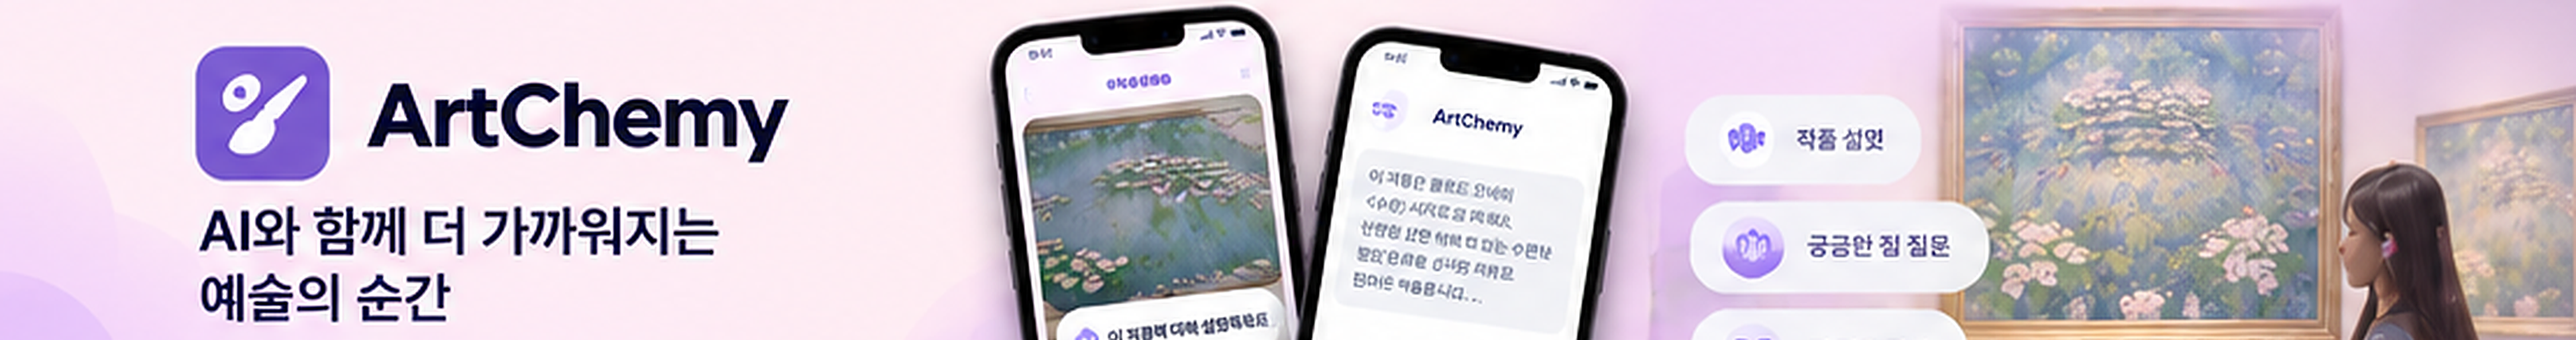
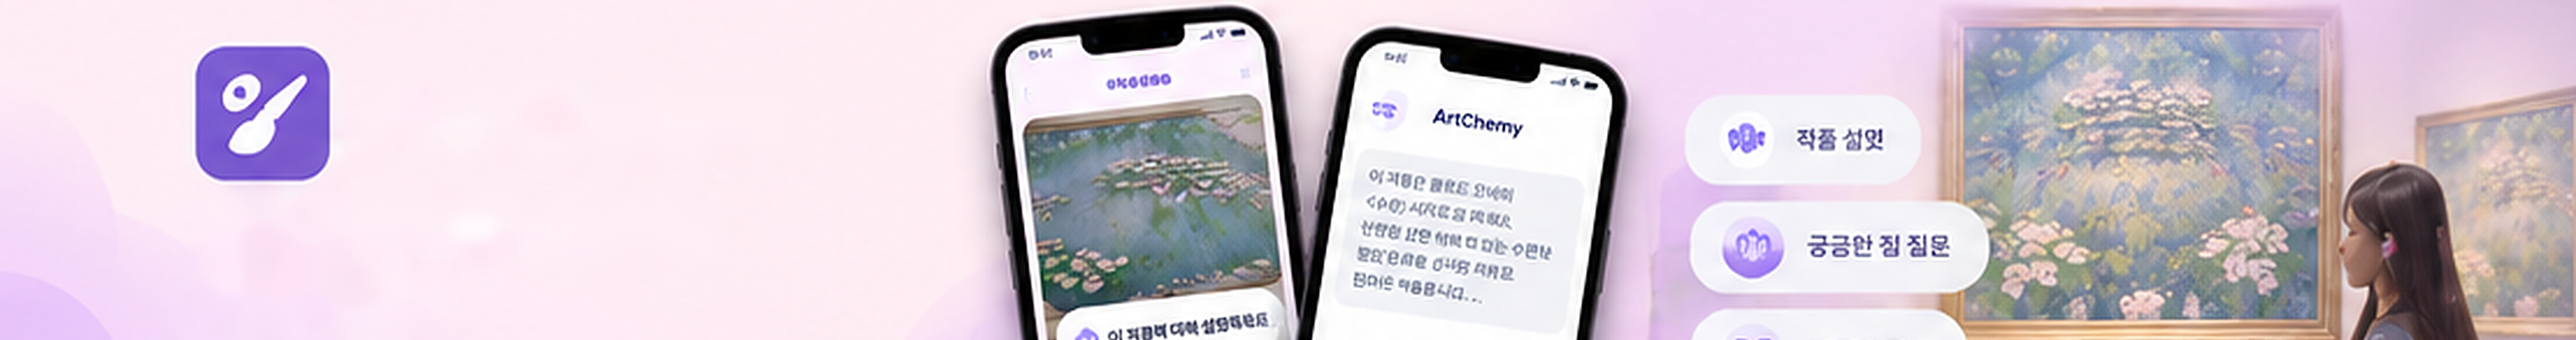
Feat: Use text-free cover images with the title overlaid on the hero
Swap in the notext banners, raise the desktop hero ratio to 3840:580, and put the
type, title and period back on top of the image, starting right of the icon.

Changed region(s): [[0.125, 0.2362, 0.3125, 0.4724], [0.0625, 0.5906, 0.2812, 0.7677], [0.0625, 0.7972, 0.1875, 0.9449]]

diff --git a/src/components/projects/ProjectDetailView.tsx b/src/components/projects/ProjectDetailView.tsx
@@ -97,21 +97,23 @@ export default function ProjectDetailView({
     if (img && img.complete && img.naturalWidth === 0) setCoverFailed(true);
   }, []);
   const coverBase = `/images/projects/${project.slug}`;
-  // 데스크톱(md 이상)은 영역 비율을 3840:520 으로 고정하고 이미지를 가득 채운다. 비율이 다른 이미지는 가장자리가 잘린다.
-  // 모바일은 이미지 높이를 그대로 따른다. width/height 는 로딩 전 자리를 잡기 위한 대략적인 값이다.
+  // 이미지 위에 제목, 유형, 기간을 얹는다. 이미지는 영역을 가득 채우고 왼쪽 기준으로 잘린다.
+  // 이미지 왼쪽에 아이콘이 있어서, 데스크톱에서는 글자를 폭의 14% 지점(아이콘 오른쪽)부터 시작한다.
+  // 데스크톱(md 이상)은 영역 비율을 3840:580 으로 고정하되, 내용이 더 길면 그만큼 늘어난다.
+  // width/height 는 로딩 전 자리를 잡기 위한 대략적인 값이다.
   const coverCommon = {
     alt: `${project.title} cover`,
     sizes: "100vw",
     quality: 85,
     loading: "eager" as const,
     className:
-      "block w-full h-auto md:absolute md:inset-0 md:h-full md:object-cover md:object-center",
+      "absolute inset-0 h-full w-full object-cover object-left md:object-[15%_50%]",
   };
   const desktopCover = getImageProps({
     ...coverCommon,
     src: `${coverBase}-desktop.png`,
     width: 3840,
-    height: 520,
+    height: 580,
   });
   const mobileCover = getImageProps({
     ...coverCommon,
@@ -124,105 +126,68 @@ export default function ProjectDetailView({
     formatPeriod(project.start, project.end, lang, project.period ?? "") ||
     null;
 
-  // 제목, 유형, 기간. 이미지 위(어두운 배경)에 얹을 때와 이미지 아래(밝은 배경)에 둘 때 색만 다르다.
-  const heading = (onDark: boolean) => (
-    <div className={onDark ? "text-white" : "text-gray-900 dark:text-white"}>
-      <span
-        className={`inline-block px-4 py-1 mb-4 text-sm font-semibold rounded-full ${
-          onDark
-            ? "bg-white/20 backdrop-blur-sm"
-            : "bg-blue-100 text-blue-700 dark:bg-blue-900/40 dark:text-blue-300"
-        }`}
-      >
-        {project.type || <T k="detail.project" />}
-      </span>
-      <h1
-        className={`text-4xl md:text-6xl font-bold mb-4 leading-tight ${
-          onDark ? "drop-shadow-md" : ""
-        }`}
-      >
-        {project.title}
-      </h1>
-      <div
-        className={`flex flex-wrap items-center gap-x-6 gap-y-2 ${
-          onDark ? "text-white/90" : "text-gray-600 dark:text-gray-400"
-        }`}
-      >
-        <div className="flex items-center gap-2">
-          <Calendar className="w-4 h-4" />
-          <span>{period || <T k="detail.unknownPeriod" />}</span>
-        </div>
-        {project.team && project.team.length > 0 && (
-          <div className="flex items-center gap-2">
-            <Users className="w-4 h-4" />
-            <span>{project.team.join(", ")}</span>
-          </div>
-        )}
-      </div>
-    </div>
-  );
-
-  const backLink = (onDark: boolean) => (
-    <Link
-      href="/projects"
-      className={`inline-flex items-center gap-2 text-sm font-medium transition-colors ${
-        onDark
-          ? "px-4 py-2 bg-white/20 hover:bg-white/30 backdrop-blur-sm rounded-full text-white"
-          : "text-gray-600 dark:text-gray-400 hover:text-blue-600 dark:hover:text-blue-400"
-      }`}
-    >
-      <ArrowLeft className="w-4 h-4" />
-      <T k="detail.back" />
-    </Link>
-  );
-
   return (
     <div className="min-h-screen bg-gradient-to-br from-slate-50 to-blue-50 dark:from-slate-900 dark:to-slate-800">
-      {!coverFailed ? (
-        <>
-          <section
-            className={`relative w-full overflow-hidden md:aspect-[3840/520] bg-gradient-to-r ${gradient}`}
-          >
-            <picture>
-              <source
-                media="(min-width: 768px)"
-                srcSet={desktopCover.props.srcSet}
-                width={3840}
-                height={520}
-              />
-              <img
-                {...mobileCover.props}
-                alt={coverCommon.alt}
-                ref={coverRef}
-                fetchPriority="high"
-                onError={() => setCoverFailed(true)}
-              />
-            </picture>
-          </section>
-          <div className="container mx-auto px-4 pt-8 md:pt-10">
-            <div className="max-w-6xl mx-auto">
-              <div className="mb-6">{backLink(false)}</div>
-              {heading(false)}
-            </div>
-          </div>
-        </>
-      ) : (
-        <section
-          className={`relative w-full overflow-hidden bg-gradient-to-r ${gradient}`}
-        >
+      <section
+        className={`relative flex w-full overflow-hidden min-h-[18rem] md:min-h-[16rem] md:aspect-[3840/580] bg-gradient-to-r ${gradient}`}
+      >
+        {!coverFailed ? (
+          <picture>
+            <source
+              media="(min-width: 768px)"
+              srcSet={desktopCover.props.srcSet}
+              width={3840}
+              height={580}
+            />
+            <img
+              {...mobileCover.props}
+              alt={coverCommon.alt}
+              ref={coverRef}
+              fetchPriority="high"
+              onError={() => setCoverFailed(true)}
+            />
+          </picture>
+        ) : (
           <Icon
             aria-hidden
             className="absolute right-8 md:right-24 top-1/2 -translate-y-1/2 w-40 h-40 md:w-64 md:h-64 text-white/20"
           />
-          <div className="absolute inset-0 bg-gradient-to-t from-black/70 via-black/30 to-black/10" />
-          <div className="relative container mx-auto px-4 min-h-[18rem] md:min-h-[26rem] py-6 md:py-8 flex flex-col justify-between">
-            <div className="self-start">{backLink(true)}</div>
-            <div className="max-w-6xl mx-auto w-full pt-12">
-              {heading(true)}
+        )}
+        <div className="absolute inset-0 bg-gradient-to-t from-black/70 via-black/30 to-black/10" />
+
+        <div className="relative container mx-auto px-4 py-4 md:py-8 flex flex-col justify-between">
+          <div className="md:pl-[14%]">
+            <Link
+              href="/projects"
+              className="inline-flex items-center gap-2 px-4 py-2 bg-white/20 hover:bg-white/30 backdrop-blur-sm rounded-full text-white text-sm font-medium transition-colors"
+            >
+              <ArrowLeft className="w-4 h-4" />
+              <T k="detail.back" />
+            </Link>
+          </div>
+
+          <div className="w-full text-white pt-8 md:pl-[14%]">
+            <span className="inline-block px-4 py-1 mb-3 bg-white/20 backdrop-blur-sm text-sm font-semibold rounded-full">
+              {project.type || <T k="detail.project" />}
+            </span>
+            <h1 className="text-4xl md:text-5xl font-bold mb-3 leading-tight drop-shadow-md">
+              {project.title}
+            </h1>
+            <div className="flex flex-wrap items-center gap-x-6 gap-y-2 text-white/90">
+              <div className="flex items-center gap-2">
+                <Calendar className="w-4 h-4" />
+                <span>{period || <T k="detail.unknownPeriod" />}</span>
+              </div>
+              {project.team && project.team.length > 0 && (
+                <div className="flex items-center gap-2">
+                  <Users className="w-4 h-4" />
+                  <span>{project.team.join(", ")}</span>
+                </div>
+              )}
             </div>
           </div>
-        </section>
-      )}
+        </div>
+      </section>
 
       <div className="container mx-auto px-4 py-12 md:py-16">
         <div className="max-w-6xl mx-auto">
